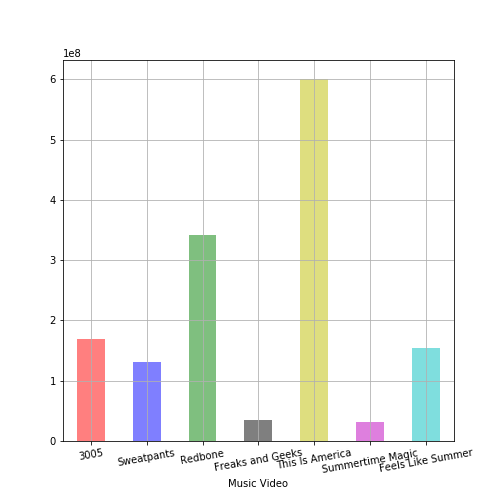
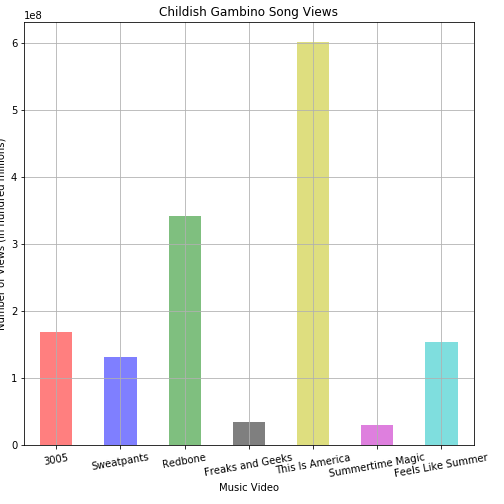
added graph names

diff --git a/Gian/apikey.py b/Gian/apikey.py
@@ -1,0 +1,1 @@
+apikey = "AIzaSyCuetyELgF3eU8TPVuQL11KLAZGkaS5e2Q"
